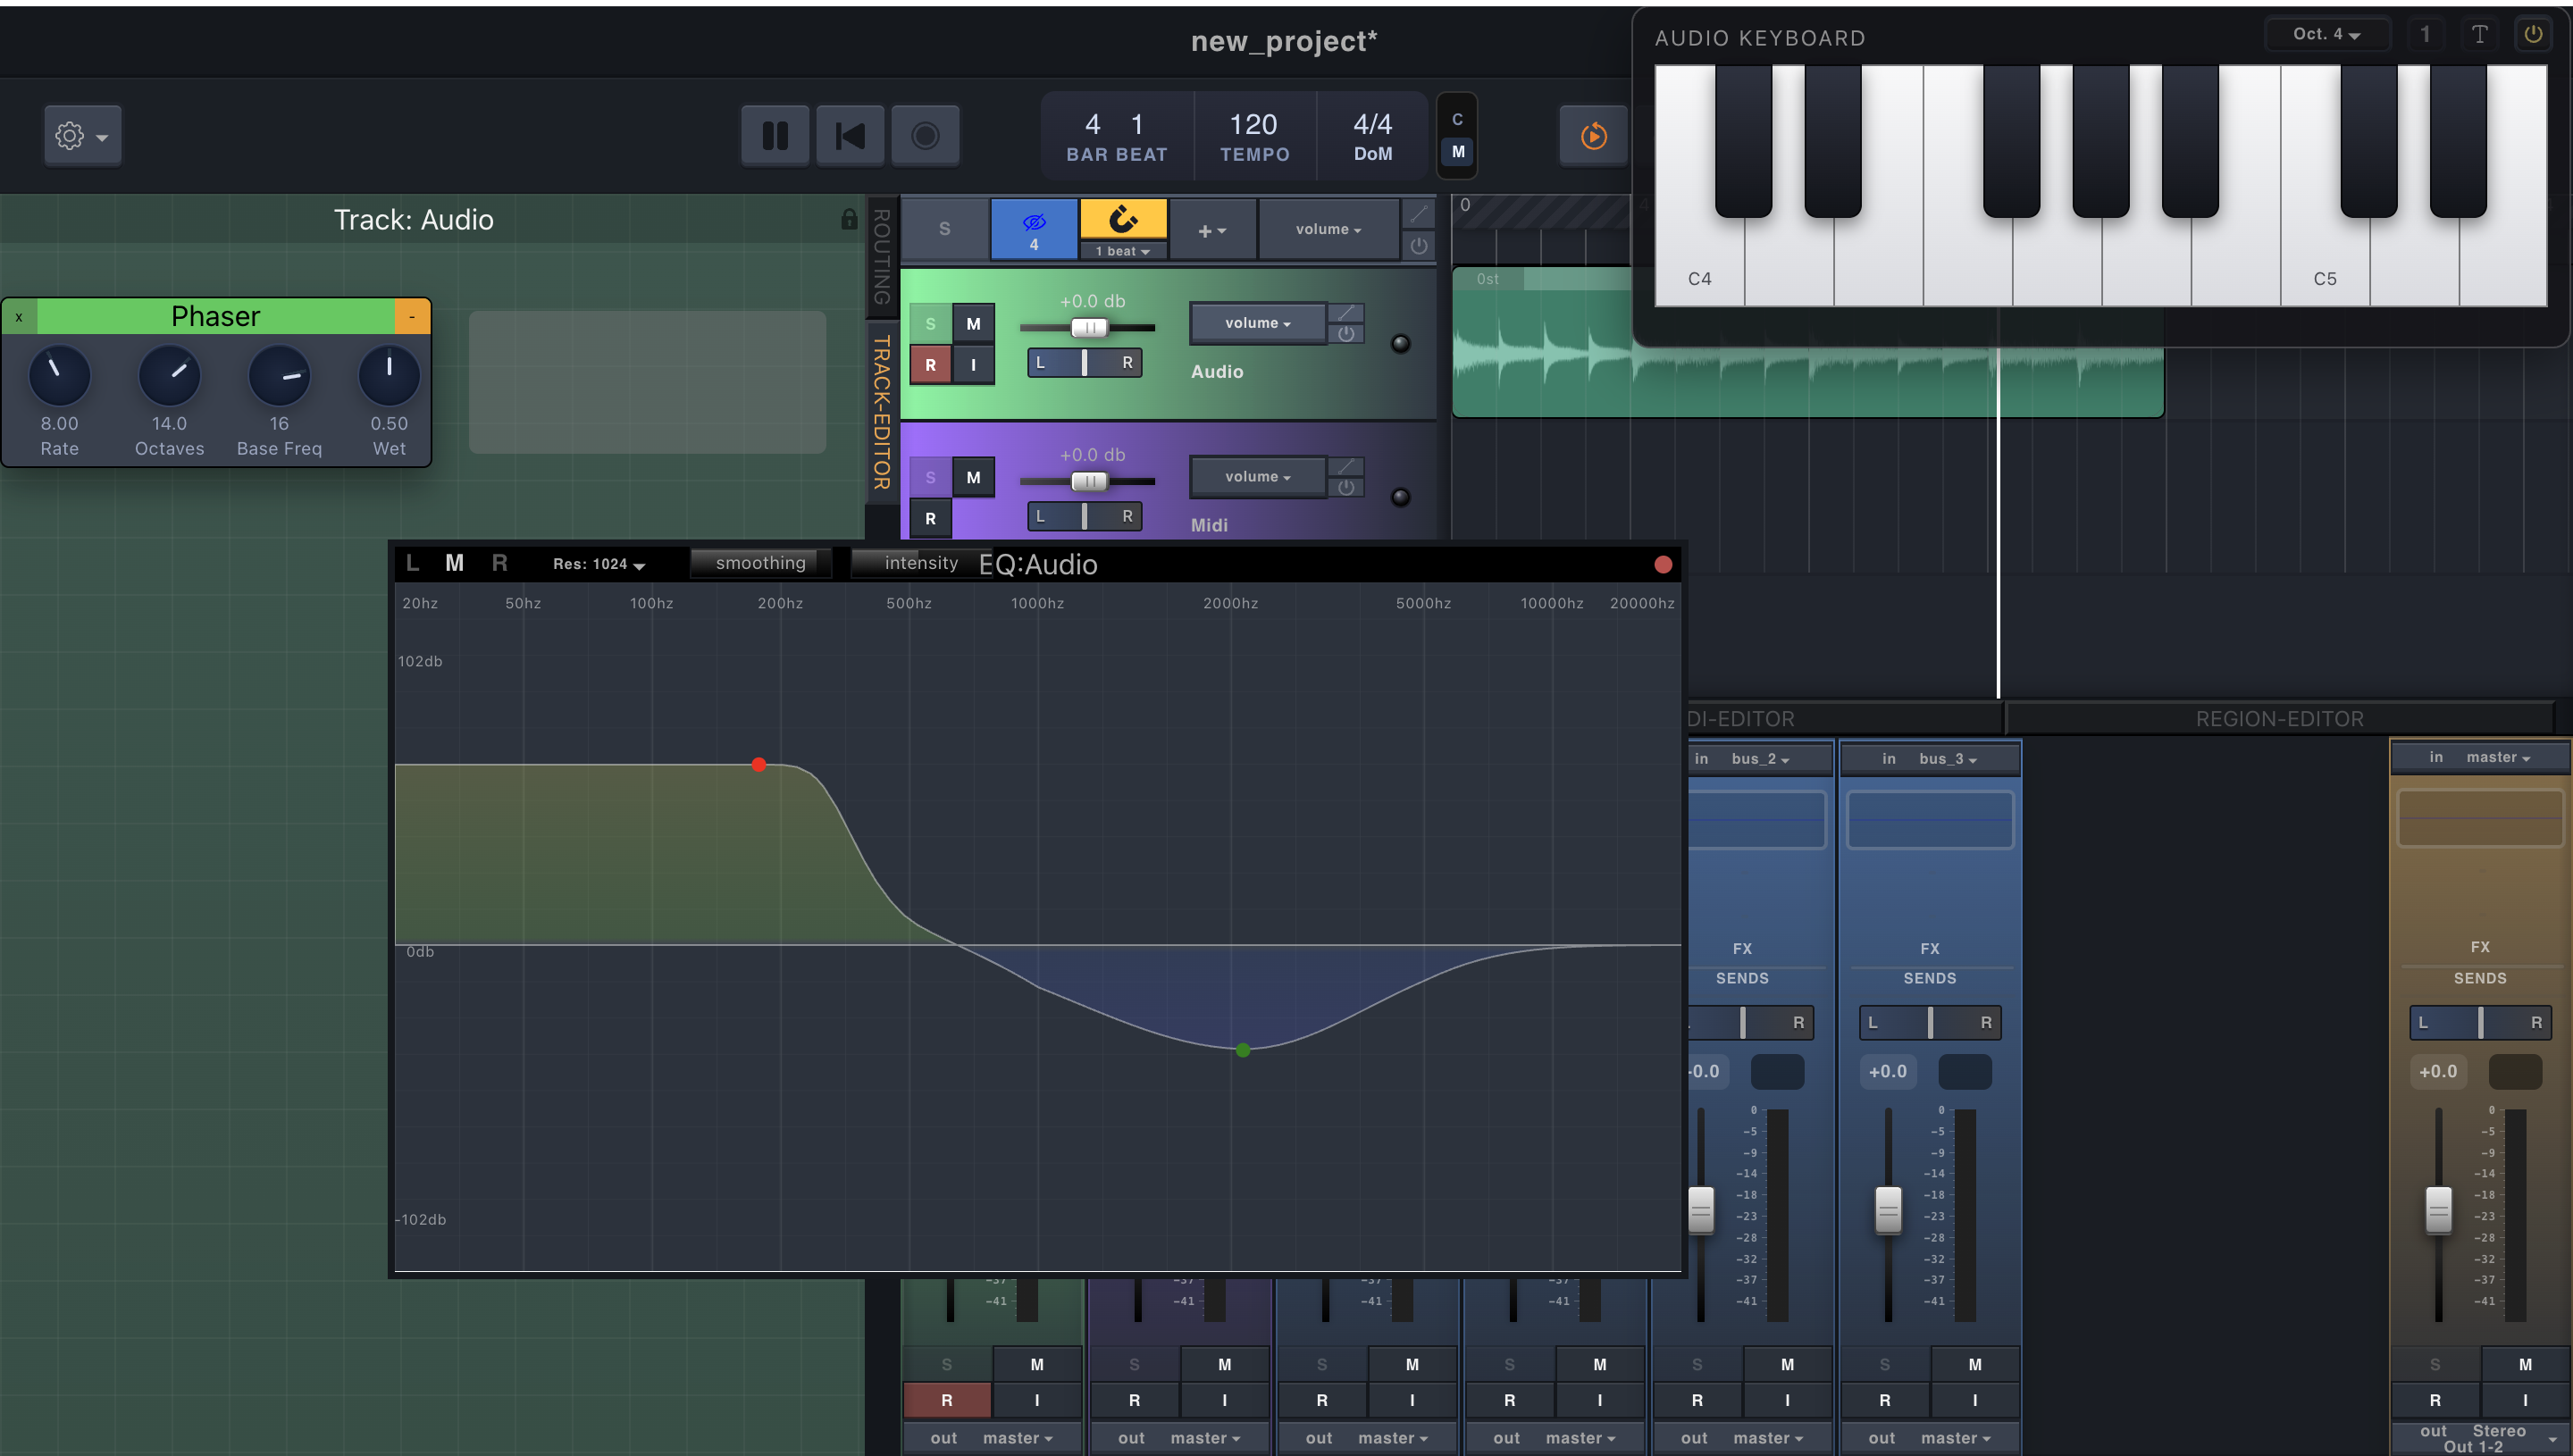
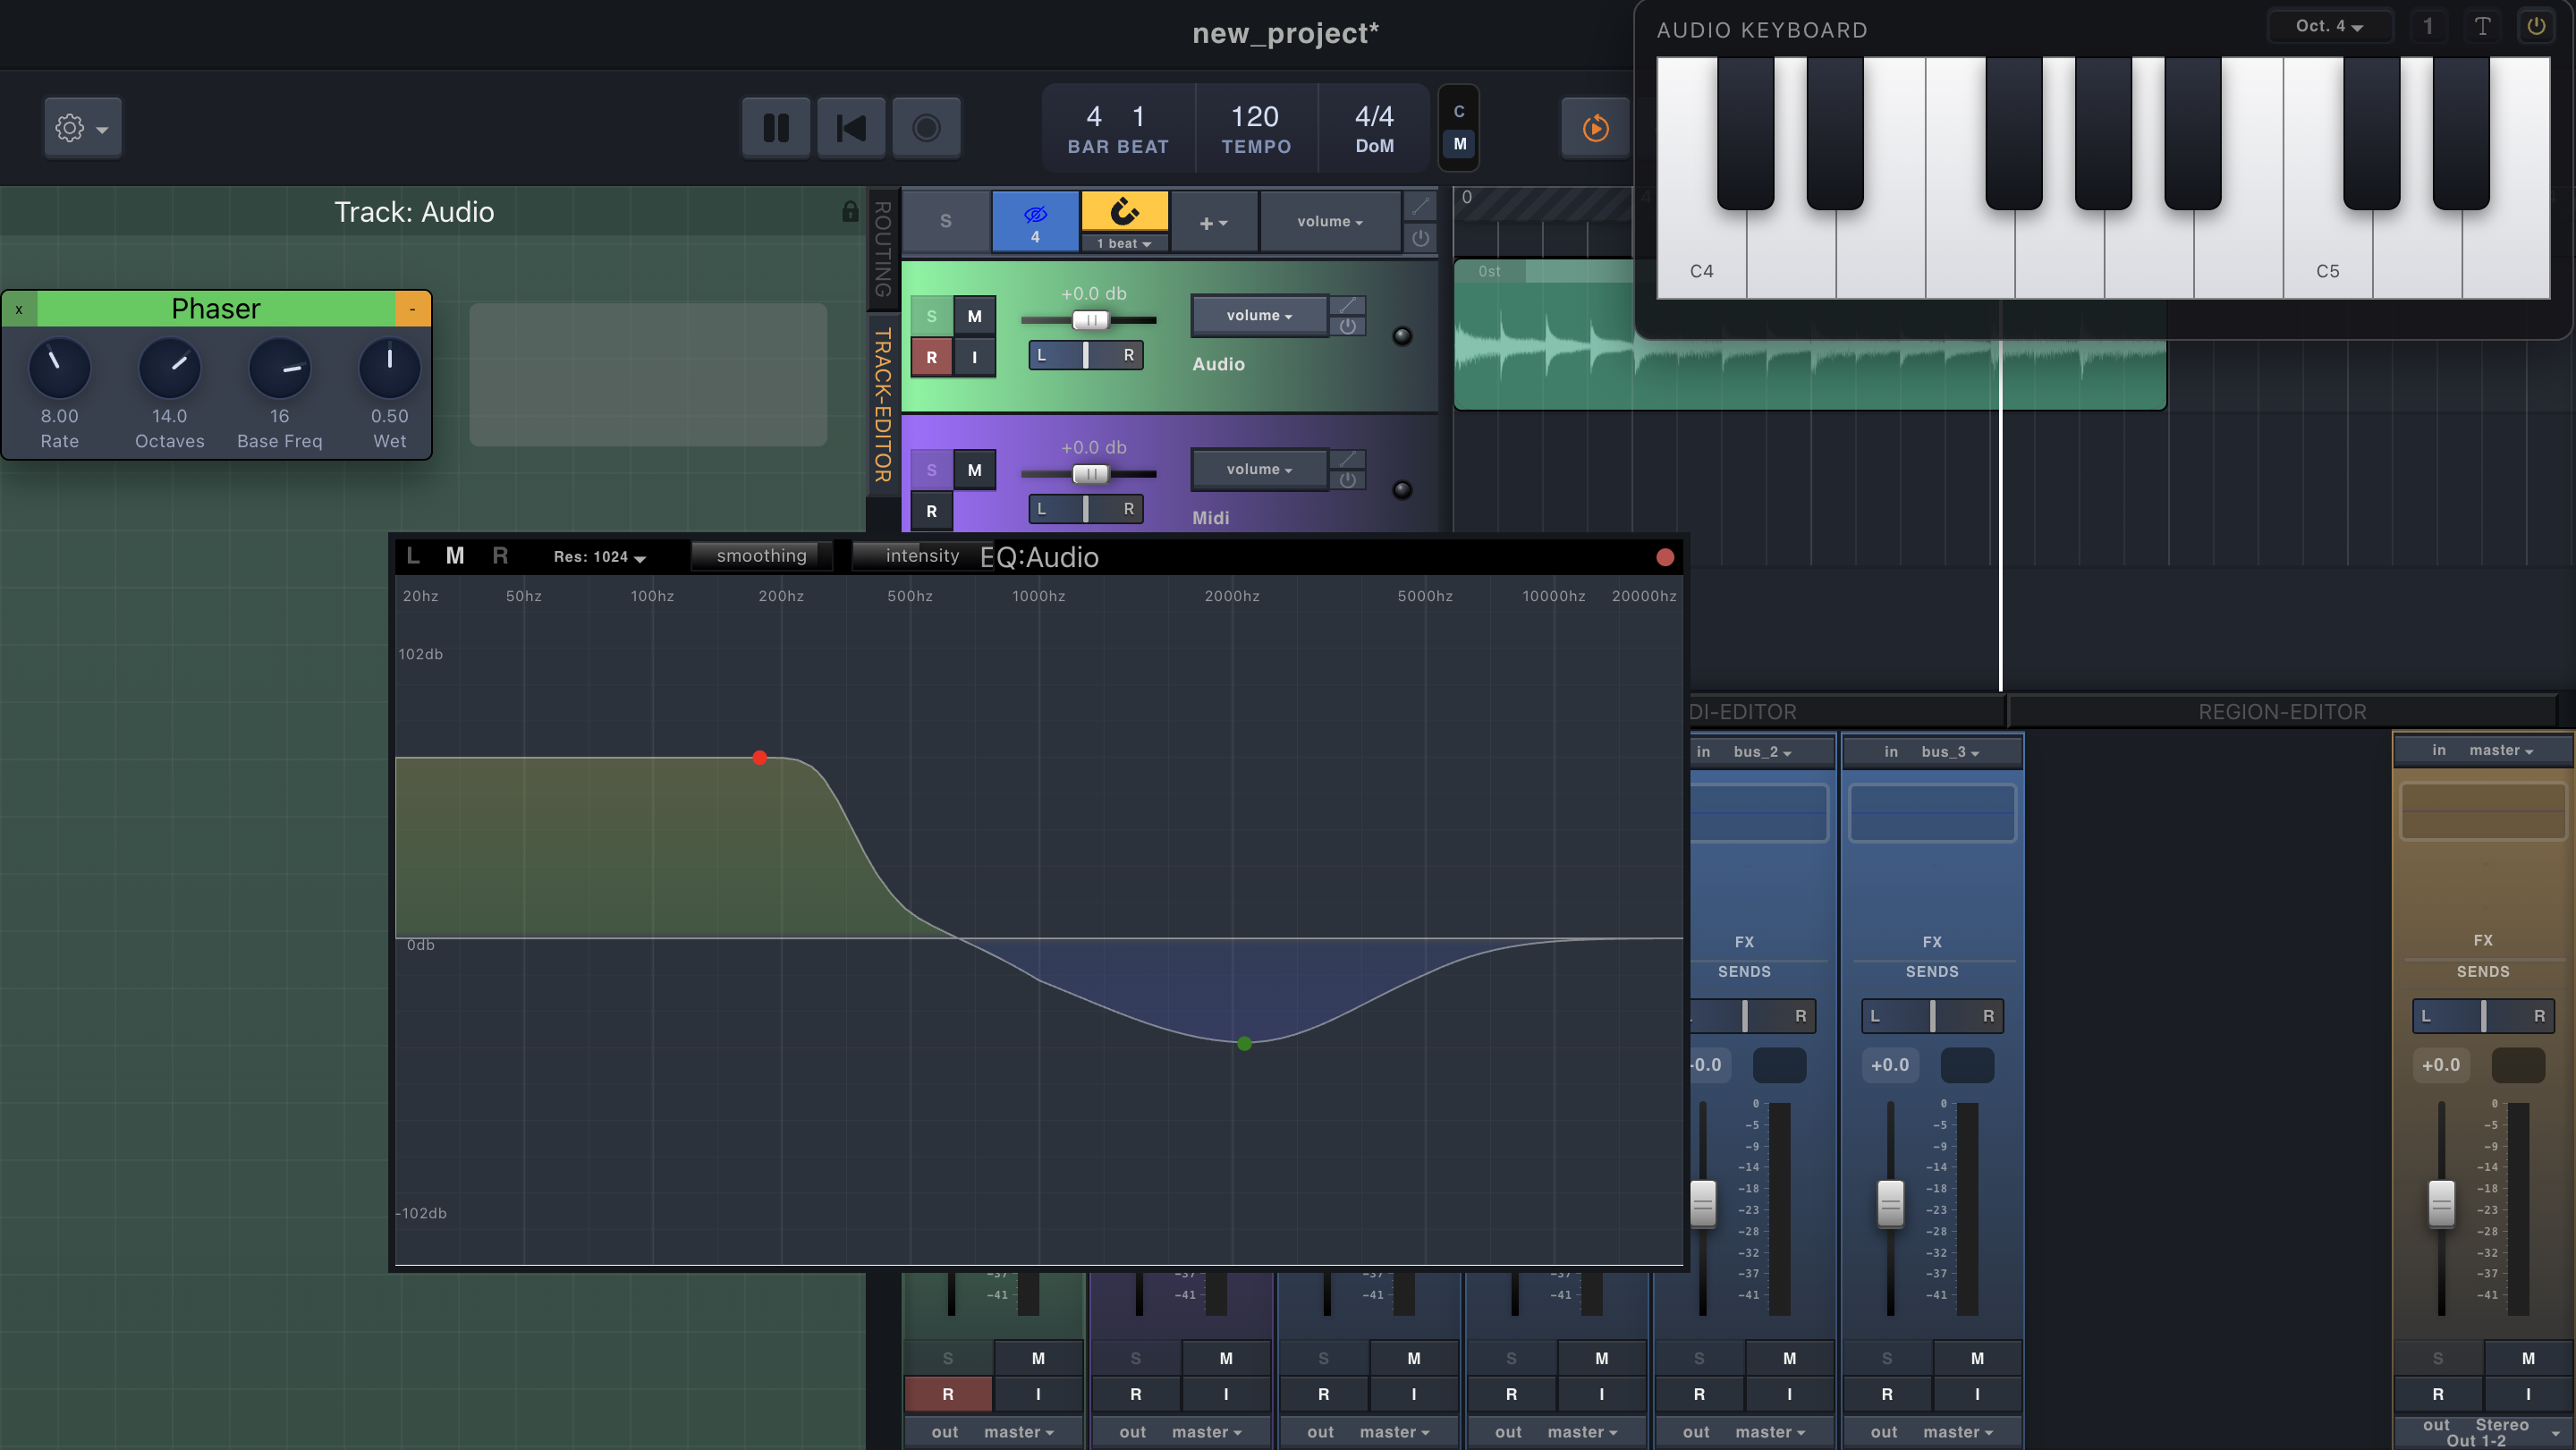
Updates

diff --git a/index.html b/index.html
@@ -5,8 +5,8 @@
     <link rel="icon" type="image/svg+xml" href="/Web_Portfolio/favicon.svg" />
     <meta name="viewport" content="width=device-width, initial-scale=1.0" />
     <title>web-portfolio</title>
-    <script type="module" crossorigin src="/Web_Portfolio/assets/index-OkHPrlIs.js"></script>
-    <link rel="stylesheet" crossorigin href="/Web_Portfolio/assets/index-DYHhOGxg.css">
+    <script type="module" crossorigin src="/Web_Portfolio/assets/index-BsZtMVGy.js"></script>
+    <link rel="stylesheet" crossorigin href="/Web_Portfolio/assets/index-CuYXwObe.css">
   </head>
   <body>
     <div id="root"></div>

diff --git a/assets/index-CuYXwObe.css b/assets/index-CuYXwObe.css
@@ -1,0 +1,1 @@
+:root{--cyan:#44d9e6;--green:#3ddc97;--hero-clr-audio:#e68a00;--hero-clr-game:#3ddc97;--section-0:#3b83f6cc;--section-1:#f59f0bcc;--section-2:#10b981cc;--section-3:#8b5cf6cc}html,body,#root{-webkit-user-select:none;user-select:none;min-height:100%;margin:0;padding:0;overflow-x:clip}body{background:var(--bg);color:var(--text);margin:0;font-family:Inter,sans-serif;font-weight:700;transition:background .3s}.App{flex-direction:column;min-height:100vh;display:flex;overflow-x:hidden}[data-theme=dark]{--header-bgr:#ffffff05;--header-scroll-bgr:#0a0e171a;--header-border:#ffffff1a;--bg:#0a0e17;--bg2:#111827;--panel:#1b2432;--contrast:#000;--text:#f4f4f5;--text-secondary:#a0aec0;--text-glow_1:#[phone redacted];--text-glow_2:#5c381240;--hover-bgr:#ffffff0d;--accent:#ffb84d;--projects-bgr:#0d0d0de6;--hero-clr-web:#cfcfcf}[data-theme=light]{--header-bgr:#[phone redacted];--header-scroll-bgr:#ffffff1a;--header-border:#0505051a;--bg:#f7f8fc;--bg2:#edf2f7;--panel:#fff;--contrast:#fff;--text:#1f2937;--text-secondary:#6b7280;--text-glow_1:#cac0e480;--text-glow_2:#ebdecf40;--hover-bgr:#0000000d;--accent:#e68a00;--projects-bgr:#eef3ffc5;--hero-clr-web:#1f2937}.page-content{z-index:1;flex-direction:column;display:flex;position:relative}.page-content *{z-index:999}.title{margin-top:30px}section .title{color:#fff;font-size:40px;font-weight:400}section .content{margin:20px;font-size:16px}.footer{box-sizing:border-box;background:var(--header-bgr);-webkit-backdrop-filter:blur(16px);backdrop-filter:blur(16px);border-top:1px solid var(--header-border);width:100%;padding:28px 20px}.footer-inner{flex-wrap:wrap;justify-content:center;gap:14px;width:min(1000px,100%);margin:0 auto;display:flex}.footer-link{min-width:150px;color:var(--text);background:var(--hover-bgr);border:1px solid var(--header-border);border-radius:999px;justify-content:center;align-items:center;gap:10px;padding:12px 16px;text-decoration:none;transition:transform .2s,border-color .2s;display:flex}.footer-icon{object-fit:contain;width:22px;height:22px}.footer-link:hover{border-color:var(--accent);transform:translateY(-3px)}@media (width<=700px){.footer-inner{grid-template-columns:1fr 1fr;display:grid}.footer-link{min-width:0}}.switch-button{pointer-events:all;cursor:pointer;width:50px;height:25px;position:relative;top:0;left:0}.switch-button .background{background:var(--text);border-radius:20px;width:50px;height:25px;transition:background .3s;position:absolute}.switch-button{position:relative}.switch-button .switch-icon{background:var(--contrast);z-index:999;border-radius:50%;width:23px;height:23px;transition:transform .3s,background .3s;position:absolute;top:1px;left:1px}.switch-icon>img{z-index:999;width:18px;height:18px;position:absolute;top:2.5px;left:2px}.switch-button .switch-icon.on{transform:translate(25px)}header{z-index:99999;border-bottom:none;justify-content:center;align-items:center;width:100%;height:72px;display:flex;position:fixed;top:0}.header-top{pointer-events:none;position:absolute;inset:0}.header-title,.header-theme-toggle{pointer-events:auto}.header-title{width:80px;height:100%;color:var(--text);cursor:pointer;white-space:nowrap;text-align:center;letter-spacing:.12em;text-transform:uppercase;justify-content:center;align-items:center;font-family:Bebas Neue,sans-serif;font-size:24px;display:flex;position:absolute;top:50%;transform:translateY(-50%)}.header-title:hover{background-color:#[phone redacted]}.header-theme-toggle{position:absolute;top:50%;right:40px;transform:translateY(-50%)}.header-content{-webkit-backdrop-filter:blur(32px);backdrop-filter:blur(32px);border-bottom:1px solid var(--header-border);justify-content:center;align-items:center;width:100%;height:72px;transition:width .3s,height .3s,border-radius .3s,background .3s,transform .3s;display:flex;position:relative}.header-content.scrolling{background:var(--header-scroll-bgr);height:58px;transform:translateY(-8px)}.header-content nav{border-radius:inherit;height:100%;display:flex;overflow:hidden}.header-button{color:var(--text);cursor:pointer;background:0 0;border:none;height:100%;padding:0 22px;font-size:15px;font-weight:700;transition:background .3s,color .3s;position:relative}.header-button:not(:last-child):after{content:"";background:var(--text);opacity:.2;width:1px;height:60%;transition:height .3s,top .3s,opacity .3s;position:absolute;top:20%;right:0}.header-button:not(:last-child):hover:after{opacity:1;height:80%;top:10%}.header-button:hover{background:var(--hover-bgr);color:var(--accent)}.header-theme-toggle{position:absolute;right:40px}@media (width<=700px){header{align-items:flex-start;height:120px;top:0;overflow:visible}.header-content{flex-direction:column;justify-content:flex-start;height:120px;padding:0;transform:none}.header-content.scrolling{background:var(--header-scroll-bgr);height:64px;transform:none}.header-top{box-sizing:border-box;pointer-events:auto;justify-content:space-between;align-items:center;width:100%;height:56px;min-height:56px;padding:0 16px;transition:height .3s,min-height .3s,opacity .2s,transform .3s;display:flex;position:static}.header-content.scrolling .header-top{opacity:0;pointer-events:none;height:0;min-height:0;overflow:hidden;transform:translateY(-56px)}.header-title,.header-theme-toggle{position:static;transform:none}.header-content nav{border-bottom:1px solid var(--border);width:100%;height:64px;min-height:64px}.header-button{flex:1;padding:0;font-size:13px}}.skills-panel{border-radius:20px;grid-template-columns:repeat(5,1fr);gap:20px;width:50%;margin:0 auto;padding:12px;display:grid}.skill{aspect-ratio:1;justify-content:center;align-items:center;display:flex}.skill img{object-fit:contain;width:95%;height:95%}@media (width<=700px){.skills-panel{width:300px}}.about-section{box-sizing:border-box;-webkit-user-select:text;user-select:text;justify-content:center;width:100%;padding:140px 24px 20px;display:flex}.about-card{border:1px solid var(--header-border);-webkit-backdrop-filter:blur(18px);backdrop-filter:blur(18px);background:#ffffff0e;border-radius:28px;width:min(860px,100%);padding:42px;box-shadow:0 24px 80px #[phone redacted]}.about-kicker{color:var(--accent);text-transform:uppercase;letter-spacing:.16em;margin-bottom:18px;font-family:JetBrains Mono,monospace;font-size:.85rem}.about-card h2{color:var(--text);letter-spacing:-.05em;margin:0 0 24px;font-size:clamp(2rem,5vw,4rem);line-height:1}.about-card p{max-width:720px;color:var(--text-secondary);font-size:1.05rem;line-height:1.75}@media (width<=700px){.about-card{width:calc(100% - 32px);padding:28px}}.contact-section{box-sizing:border-box;justify-content:center;align-items:center;width:100%;min-height:400px;padding:120px 24px;display:flex}.contact-section h2{color:var(--text)}.contact-card{-webkit-backdrop-filter:blur(18px);backdrop-filter:blur(18px);background:#0c101eb8;border:1px solid #ffffff24;border-radius:28px;width:min(400px,100%);padding:36px;box-shadow:0 24px 80px #0006}.contact-header{text-align:center;margin-bottom:28px}.contact-header h2{margin:0;font-size:clamp(2rem,5vw,3.5rem)}.contact-header p{max-width:480px;color:var(--text-secondary);margin:12px auto 0;line-height:1.6}.contact-form{flex-direction:column;gap:18px;display:flex}.form-field{flex-direction:column;gap:8px;display:flex}.form-field label{color:var(--text-secondary);letter-spacing:.04em;text-transform:uppercase;font-size:.85rem;font-weight:800}.form-field input,.form-field textarea{box-sizing:border-box;width:100%;color:var(--text);font:inherit;background:#ffffff0f;border:1px solid #ffffff24;border-radius:14px;outline:none;padding:14px 16px;transition:border-color .2s,background .2s,box-shadow .2s}.form-field textarea{resize:vertical;min-height:150px}.form-field input:focus,.form-field textarea:focus{border-color:var(--accent);background:#ffffff17;box-shadow:0 0 0 4px #ffb84d1f}.contact-form button{cursor:pointer;background:var(--accent);color:#0a0e17;border:none;border-radius:999px;margin-top:8px;padding:14px 20px;font-size:1rem;font-weight:900;transition:transform .2s,box-shadow .2s}.contact-form button:hover{transform:translateY(-2px);box-shadow:0 12px 30px #ffb84d40}.contact-success>h3{margin-top:358px}@media (width<=700px){.contact-card{background:#5c7ae7b8;border:1px solid #[phone redacted];box-shadow:0 24px 80px #fff6}}.hero-section{text-align:center;flex-direction:row;justify-content:center;height:calc(100vh - 340px);padding:20px;display:flex}.hero-section>div{flex:1}.hero-section .left{flex-direction:column;justify-content:center;align-items:center;font-family:Space Grotesk,sans-serif;font-size:120px;font-weight:700;display:flex}.left>:first-child{color:var(--hero-clr-web);text-underline-offset:-8px;text-decoration:underline;transition:color .3s}.left>:nth-child(2){color:var(--hero-clr-audio);transition:color .3s}.right>:first-child{color:var(--hero-clr-web);transition:color .3s}.right>:nth-child(2){color:var(--hero-clr-audio);transition:color .3s}.right>:nth-child(3){color:var(--hero-clr-game);transition:color .3s}.right>div{cursor:pointer;transition:transform .3s}.hero-section .right{flex-direction:column;justify-content:center;align-items:center;font-family:JetBrains Mono,monospace;font-size:40px;font-weight:500;display:flex}.hero-name,.hero-job{text-shadow:0 0 8px var(--text-glow_1), 0 0 24px var(--text-glow_2);line-height:1.25;transition:text-shadow 2s;display:block}.hero-job{display:inline-block;position:relative}.hero-section:not(.animating) .hero-job:hover:after{content:"";background:currentColor;height:1px;position:absolute;bottom:6px;left:0;right:0}.hero-job{letter-spacing:.04em}.char-line{overflow:visible}.char{transform-origin:bottom;will-change:transform, opacity;display:inline-block}@media (width<=700px){.hero-section{flex-direction:column;margin-top:50px}.hero-section .left{font-size:60px}.hero-section{height:calc(100vh - 450px)}.hero-section .right{margin-top:20px;font-size:30px}}.spotify-section{width:60%;height:100%}.spotify-container{flex-direction:row;gap:40px;height:400px;margin-top:30px;display:flex}.spotify-container>*{flex:1 1 0;min-width:0;min-height:0}@media (width<=700px){.spotify-container{flex-direction:column;gap:10px}.spotify-section{width:90%}}.overlay h3{margin:0;font-size:2rem}.overlay p{max-width:620px;color:var(--text);margin:0;line-height:1.6}.overlay .label{width:fit-content;color:var(--accent);pointer-events:none;flex:1;margin:0 0 5px;font-size:2rem;font-weight:800;text-decoration:none}.open-button{background:var(--accent);color:#0a0e17;cursor:pointer;border:none;padding:8px 14px}.open-button:hover{filter:brightness(1.1);transform:translateY(-1px)}.demo-button{color:#fff;cursor:pointer;background:0 0;border:1px solid #ffffff40;padding:8px 14px}.demo-button:hover{background:#ffffff1a}.project-meta,.project-tags{flex-wrap:wrap;gap:8px;display:flex}.pill{letter-spacing:.02em;-webkit-backdrop-filter:blur(8px);backdrop-filter:blur(8px);border-radius:999px;width:fit-content;padding:6px 10px;font-size:.78rem;font-weight:800}.pill.language{color:#0a0e17;background:var(--accent)}.pill.tag{color:#fff;background:#ffffff1f;border:1px solid #ffffff29}.project-header{justify-content:space-between;align-items:flex-start;gap:24px;display:flex}.project-title{flex-direction:column;display:flex}.project-tech{flex-direction:column;align-items:flex-end;gap:8px;display:flex}.project-languages,.project-tags{flex-wrap:wrap;justify-content:flex-end;gap:8px;display:flex}@media (width<=700px){.carousel{height:460px}.entry{height:370px}.overlay{padding:22px}}.entry{background:#ffffff0a;border:1px solid #ffffff1f;border-radius:24px;width:min(720px,78vw);height:450px;transition:transform .45s,opacity .45s,box-shadow .45s;position:absolute;overflow:hidden;box-shadow:0 20px 70px #[phone redacted]}.entry.active{box-shadow:0 30px 100px #0000008c}.entry img{object-fit:cover;transition:transform .45s}.entry>img:not(.close-button),.entry-video{object-fit:cover;width:100%;height:100%;display:block}.overlay{opacity:0;background:linear-gradient(#0a0e170d,#0a0e174d,#0a0e17f5);flex-direction:column;justify-content:flex-end;gap:12px;padding:32px;transition:opacity .25s;display:flex;position:absolute;inset:0}.entry.active:hover:not(.transitioning) .overlay{opacity:1}.entry.transitioning .overlay,.entry.transitioning:hover .overlay,.entry.active.transitioning:hover .overlay,.entry.video-open .overlay{opacity:0;pointer-events:none}.entry.video-open{cursor:default;border-radius:0}.entry:not(.active):hover{cursor:pointer;filter:brightness(1.2)}.right-corner{z-index:20;box-sizing:border-box;pointer-events:none;background:radial-gradient(circle at 100% 0,#0a0e17d9 0%,#0a0e1773 42%,#0a0e1700 72%);justify-content:flex-end;align-items:flex-start;width:64px;height:64px;padding:6px;display:flex;position:absolute;top:0;right:0}.close-button{object-fit:contain;opacity:.45;cursor:pointer;pointer-events:auto;width:30px;height:30px;transition:opacity .2s,transform .2s}.close-button:hover{opacity:.9;transform:scale(1.15)}@media (width<=700px){.entry{touch-action:pan-y;-webkit-user-select:none;user-select:none}.right-corner{background:0 0;justify-content:center;align-items:flex-start;padding-top:4px;top:0;left:50%;transform:translate(-50%)}}.carousel-section{flex-direction:column;align-items:center;width:100%;display:flex}.carousel-description{width:min(900px,82vw);color:var(--contrast);opacity:.8;margin-top:2rem;margin-bottom:0;font-size:clamp(.95rem,1.4vw,1.15rem);line-height:1.6}.carousel-description.left{text-align:left}.carousel-description.center{text-align:center}.carousel-description.right{text-align:right}.carousel-content{justify-content:center;align-items:center;width:100%;height:540px;display:flex;position:relative}.carousel-track{justify-content:center;align-items:center;width:min(900px,82vw);height:100%;display:flex;position:relative}.projects-section{width:100%;min-height:100vh;color:var(--text);flex-direction:column;align-items:center;padding:80px 0;display:flex;position:relative;overflow:hidden}.projects-content{flex-direction:column;align-items:center;gap:300px;width:100%;min-height:100vh;display:flex;overflow:hidden}.projects-section .sub-title{letter-spacing:.08em;text-transform:uppercase;color:var(--text);align-self:center;margin-bottom:0;font-family:Space Grotesk,sans-serif;font-size:clamp(1.4rem,2.5vw,2.5rem);font-weight:700;display:inline-block;position:relative}.projects-section .sub-title:after{content:"";background:var(--text);border-radius:999px;width:70px;height:3px;position:absolute;bottom:-10px;left:0}.projects-intro{cursor:pointer;color:var(--contrast);border-radius:5px;flex-direction:row;align-items:center;gap:18px;margin:48px 0 80px;padding:15px;display:flex}.projects-intro:hover{color:var(--text);background:#0000001a}.projects-title{letter-spacing:.18em;text-transform:uppercase;text-align:center;font-family:Space Grotesk,sans-serif;font-size:clamp(2rem,4vw,3.2rem);font-weight:300}.projects-arrow{opacity:.8;-webkit-user-select:none;user-select:none;width:42px;height:auto}@media (width<=700px){.projects-section .sub-title{text-align:center;align-self:center;width:fit-content;max-width:90%}.carousel-section .sub-title:after,.projects-section .sub-title:after{right:auto;transform:translate(-50%);left:50%!important}.projects-intro{color:var(--text);margin-top:30px;margin-bottom:100px}.projects-content{gap:120px}}.wave-bg{opacity:1;width:100%;position:absolute;left:0}.wave-backdrop{pointer-events:none;-webkit-backdrop-filter:blur(10px)brightness(1.35)saturate(1.35);background:#ffffff1f;width:100%;position:absolute;left:0;overflow:visible}.wave-backdrop:before{content:"";mix-blend-mode:screen;filter:blur(30px);pointer-events:none;background:radial-gradient(circle at 50% 20%,#ffffff40,#0000 45%);position:absolute;inset:0}.sliding-element{z-index:1;pointer-events:none;will-change:transform;width:64px;height:64px;position:absolute;top:0;left:0}.sliding-element-inner{border-radius:50%;justify-content:center;align-items:center;width:100%;height:100%;display:flex;position:relative;overflow:hidden}.bar_0,.bar_1{background:var(--contrast);position:absolute}.bar_0{width:10%;height:60%}.bar_1{width:60%;height:10%}